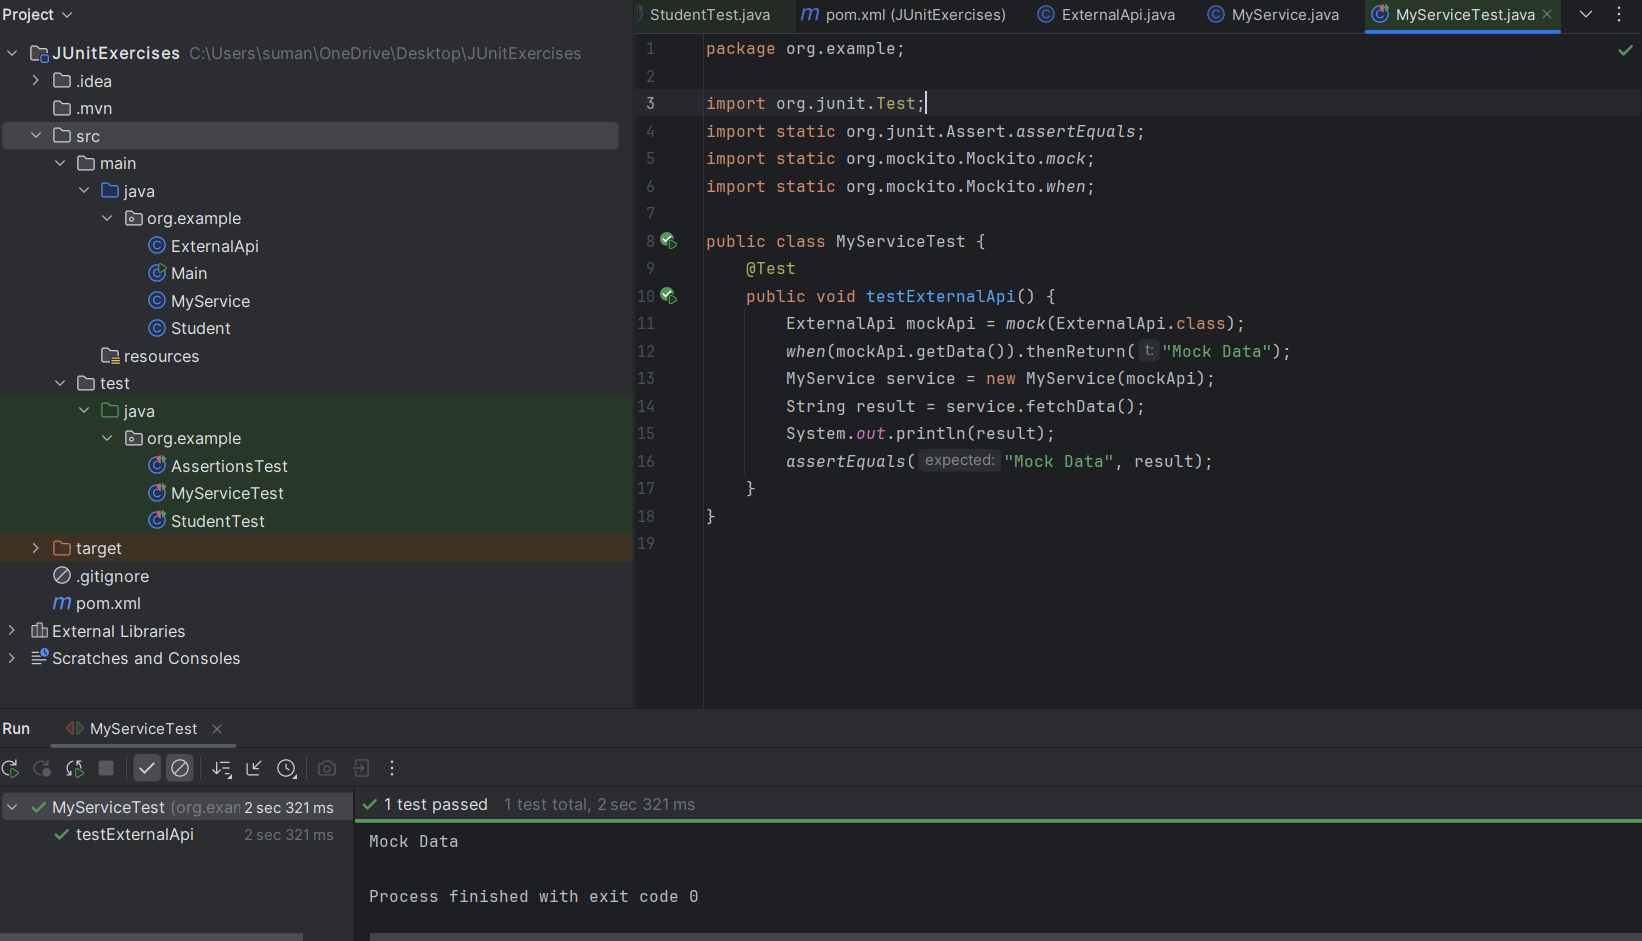
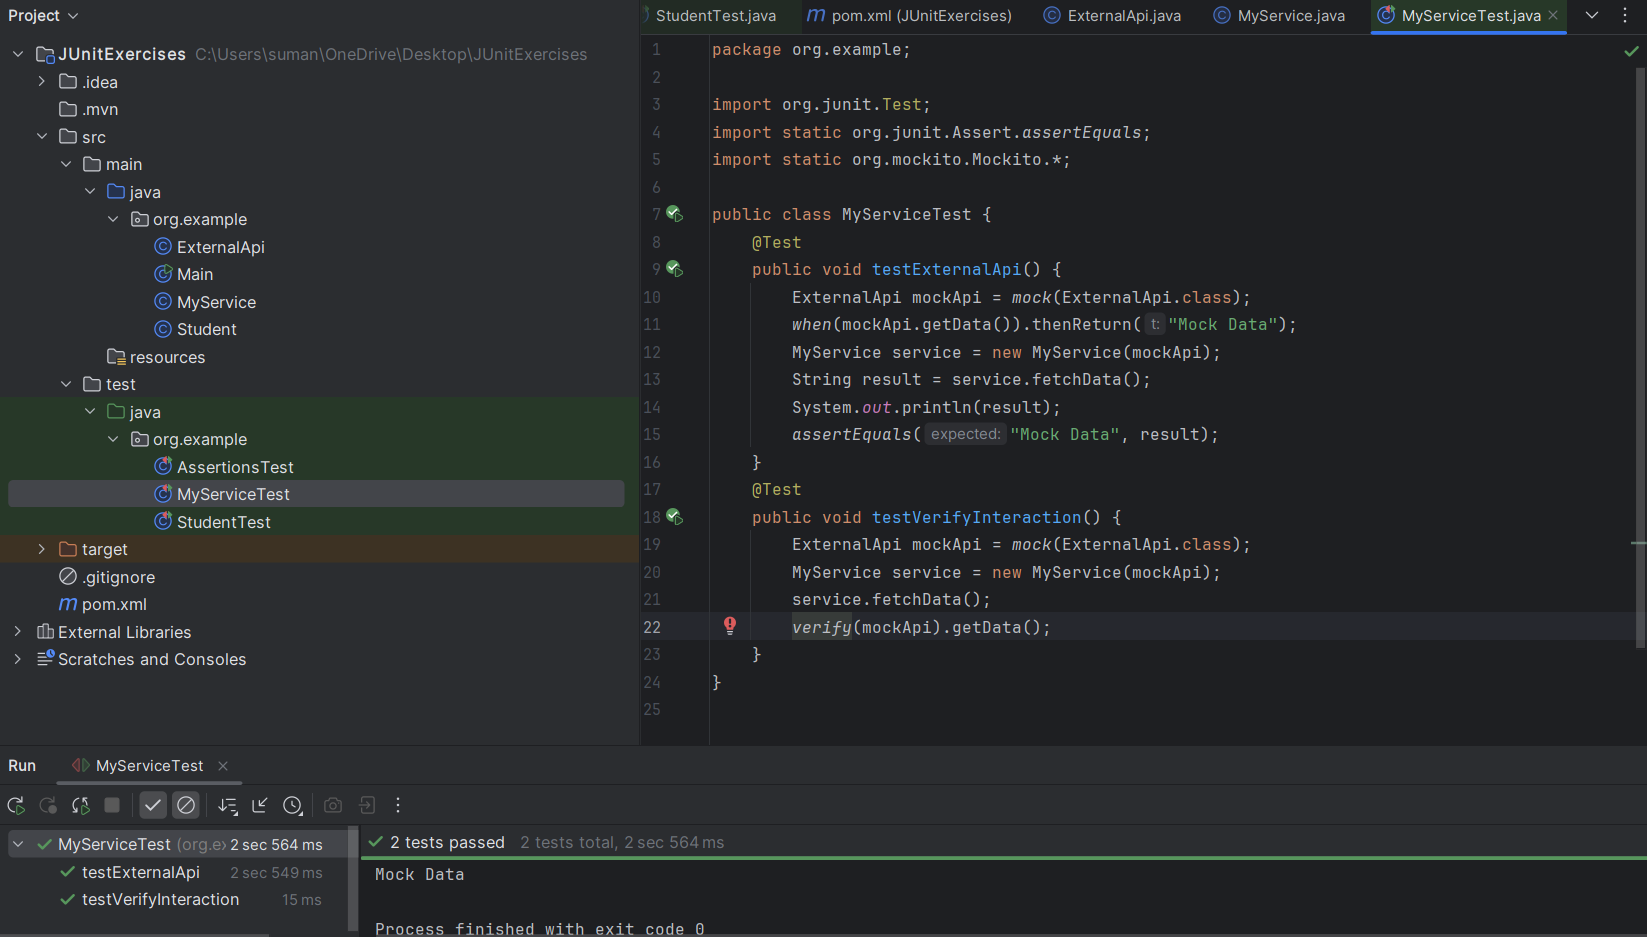
mockito 2

diff --git a/WEEK-1/Mockito/MyServiceTest.java b/WEEK-1/Mockito/MyServiceTest.java
@@ -2,8 +2,7 @@ package org.example;
 
 import org.junit.Test;
 import static org.junit.Assert.assertEquals;
-import static org.mockito.Mockito.mock;
-import static org.mockito.Mockito.when;
+import static org.mockito.Mockito.*;
 
 public class MyServiceTest {
     @Test
@@ -14,5 +13,12 @@ public class MyServiceTest {
         String result = service.fetchData();
         System.out.println(result);
         assertEquals("Mock Data", result);
+    }
+    @Test
+    public void testVerifyInteraction() {
+        ExternalApi mockApi = mock(ExternalApi.class);
+        MyService service = new MyService(mockApi);
+        service.fetchData();
+        verify(mockApi).getData();
     }
 }